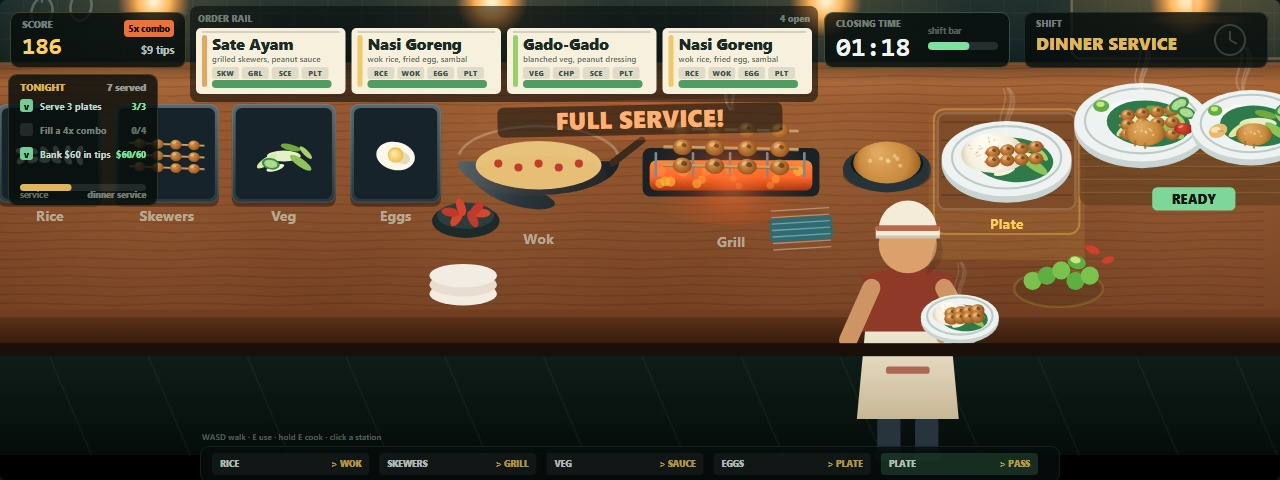
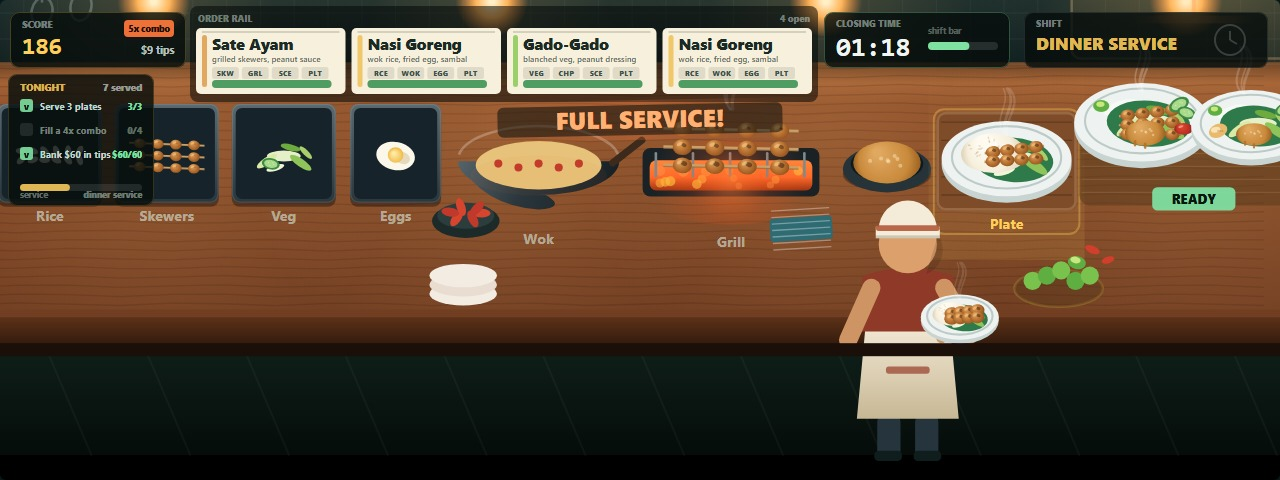
v3 cover: no station strip in the hero frame, narrower objectives panel

diff --git a/game/src/hud.js b/game/src/hud.js
@@ -17,7 +17,7 @@ export function drawHud(c, state, t, opts = {}) {
   drawClock(c, state);
   drawShiftBadge(c, state);
   drawTonight(c, state, opts);
-  drawStationStrip(c, state, opts);
+  if (!opts.zoom) drawStationStrip(c, state, opts);
   drawEventBanner(c, state);
   drawPlateCall(c, state);
   drawToast(c, state);
@@ -174,7 +174,7 @@ function drawTonight(c, state, opts = {}) {
   const x = 8;
   const y = 74;
   const compact = opts.zoom;
-  const w = compact ? 150 : 182;
+  const w = compact ? 146 : 182;
   const h = compact ? 132 : 214;
   panel(c, x, y, w, h, 9, 'rgba(255,207,92,0.18)');
   label(c, 'TONIGHT', x + 12, y + 17, { size: 9.5, weight: 800, color: 'rgba(255,207,92,0.85)' });
